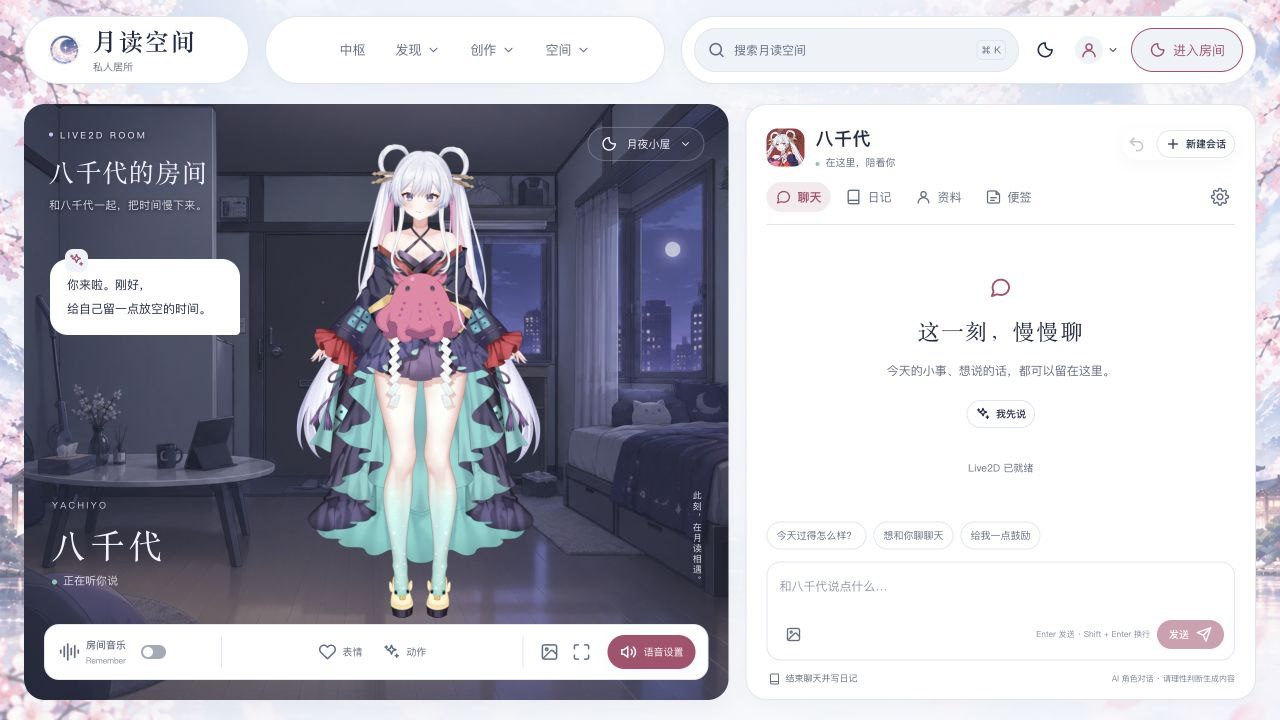
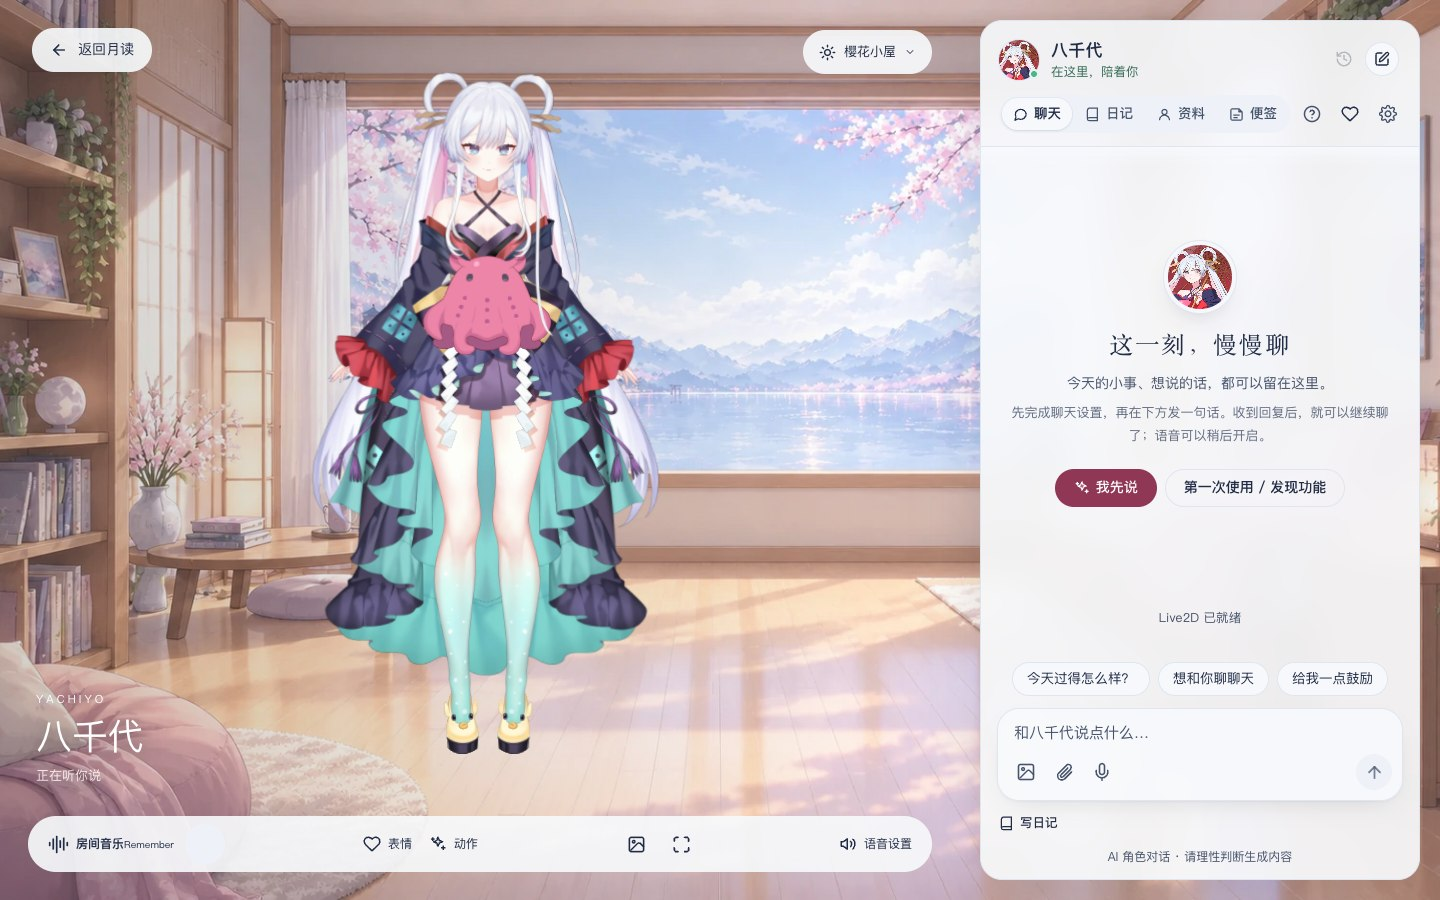
Refresh bilingual site previews and surface top-ups and sponsorship

diff --git a/README_EN.md b/README_EN.md
@@ -6,21 +6,24 @@
 
 Tsukuyomi Space is a nonprofit fan community inspired by the world of *Cosmic Princess Kaguya!*. Built with Vue 3 and Express, it brings together a Live2D AI companion, creative publishing, community interaction, and a public fan wiki.
 
+- **[Top up your AI balance](https://tsukuyomi-space.com/payments)** · Sign in to add credit for official chat and voice services and check your orders and usage.
+- **[Support Tsukuyomi Space on Afdian](https://ifdian.net/a/redchenk)** · Help cover hosting, storage, and CDN costs. You can also [scan the support QR code](#support-the-project).
+
 [Chinese / Japanese site](https://yachiyo.hk) · [English site](https://tsukuyomi-space.com) · [Deployment guide](docs/DEPLOY.md) · [Report an issue](https://github.com/redchenk/tsukuyomi-space/issues)
 
 [Preview](#preview) · [Core experiences](#core-experiences) · [Quick start](#quick-start) · [Deployment and configuration](#deployment-and-configuration) · [Developer documentation](#developer-documentation) · [Support the project](#support-the-project)
 
-[![The redesigned Tsukuyomi Space home page, featuring its sakura theme, Room entrance, and latest community creations](docs/images/preview/hub.jpg)](https://tsukuyomi-space.com/hub)
+[![Tsukuyomi Space hub with Yachiyo beneath a parasol and a link to enter her room](docs/images/preview/en/hub.jpg)](https://tsukuyomi-space.com/hub)
 
 ## Preview
 
-These screenshots were captured from the public Chinese site on **October 5, 2026**, at a 1280 × 720 desktop viewport in the light theme while signed out. The Stage shows its featured view, and the Pixel Atelier displays the built-in Moonlit house example. Community content, time, and weather scenes may change.
+Captured on the English site on November 21, 2026. The Room shows Yachiyo in Live2D, and the Pixel Atelier has the built-in Moonlit House example open.
 
 | Live2D AI Room | Stage · Articles and creations |
 | --- | --- |
-| [![Live2D AI Room](docs/images/preview/room.jpg)](https://tsukuyomi-space.com/room) | [![Featured Stage articles](docs/images/preview/stage.jpg)](https://tsukuyomi-space.com/stage?sort=featured) |
+| [![Live2D AI Room](docs/images/preview/en/room.jpg)](https://tsukuyomi-space.com/room) | [![Featured Stage articles](docs/images/preview/en/stage.jpg)](https://tsukuyomi-space.com/stage?sort=featured) |
 | **192 × 108 Pixel Atelier** | **Cosmic Princess Kaguya! Wiki** |
-| [![Pixel Atelier canvas and drawing tools](docs/images/preview/pixel.jpg)](https://tsukuyomi-space.com/pixel) | [![Cosmic Princess Kaguya! Wiki home page](docs/images/preview/wiki.jpg)](https://tsukuyomi-space.com/wiki) |
+| [![Pixel Atelier canvas and drawing tools](docs/images/preview/en/pixel.jpg)](https://tsukuyomi-space.com/pixel) | [![Cosmic Princess Kaguya! Wiki home page](docs/images/preview/en/wiki.jpg)](https://tsukuyomi-space.com/wiki) |
 
 ## Core experiences
 
@@ -250,12 +253,12 @@ VITE_SITE_LANGUAGE=en npm run build:web
 If Tsukuyomi Space has been useful to you, you can support its server, object-storage, CDN, and maintenance costs through Afdian. Contributions do not affect site features, moderation, or user permissions.
 
 <p align="center">
-  <a href="https://www.ifdian.net/a/redchenk?utm_source=copylink&amp;utm_medium=link">
+  <a href="https://ifdian.net/a/redchenk">
     <img src="assets/images/support/afdian-redchenk.jpg" width="240" alt="Support redchenk and Tsukuyomi Space on Afdian">
   </a>
 </p>
 
-<p align="center"><a href="https://www.ifdian.net/a/redchenk?utm_source=copylink&amp;utm_medium=link">Support Tsukuyomi Space on Afdian</a></p>
+<p align="center"><a href="https://ifdian.net/a/redchenk">Support Tsukuyomi Space on Afdian</a></p>
 
 ## Technology and asset credits
 

diff --git a/README.md b/README.md
@@ -6,15 +6,18 @@
 
 围绕《超时空辉夜姬！》世界观构建的非盈利同人社区，以 Vue 3 + Express 连接 Live2D AI 陪伴、内容创作、社区互动与作品百科。
 
+- **[充值官方 AI 余额](https://yachiyo.hk/payments)** · 登录支付中心，为官方聊天和语音服务充值，查看订单与用量。
+- **[在爱发电赞助月读空间](https://ifdian.net/a/redchenk)** · 自愿分担服务器、存储和 CDN 开支，也可以[扫码赞助](#支持项目)。
+
 [国内站 · 中文 / 日语](https://yachiyo.hk) · [海外站 · English](https://tsukuyomi-space.com) · [部署指南](docs/DEPLOY.md) · [问题反馈](https://github.com/redchenk/tsukuyomi-space/issues)
 
 [项目预览](#项目预览) · [核心体验](#核心体验) · [快速开始](#快速开始) · [部署与配置](#部署与配置) · [开发文档](#开发文档) · [支持项目](#支持项目)
 
-[![月读空间新版首页：月白樱粉主题、私人居所入口与月下新鲜事](docs/images/preview/hub.jpg)](https://yachiyo.hk/hub)
+[![月读空间大厅，撑伞的八千代与进入房间的入口](docs/images/preview/hub.jpg)](https://yachiyo.hk/hub)
 
 ## 项目预览
 
-以下截图采集于 **2026-10-05**，来自国内站公开页面，使用 1280 × 720 桌面视口、浅色主题、未登录状态。主舞台展示精选视图，像素工坊展示内置的月光小屋示例；社区内容与时间、天气场景会持续变化。
+2026 年 11 月 21 日实拍于国内站。房间展示八千代的 Live2D 场景，像素工坊打开了内置的「月光小屋」示例。
 
 | Live2D AI 私人居所 | 主舞台 · 文章与创作 |
 | --- | --- |
@@ -260,12 +263,12 @@ VITE_SITE_LANGUAGE=en npm run build:web
 如果月读空间为你带来了帮助，可以通过爱发电自愿支持服务器、对象存储、CDN 与持续维护。支持不会影响站内功能、内容审核或用户权限。
 
 <p align="center">
-  <a href="https://www.ifdian.net/a/redchenk?utm_source=copylink&amp;utm_medium=link">
+  <a href="https://ifdian.net/a/redchenk">
     <img src="assets/images/support/afdian-redchenk.jpg" width="240" alt="通过爱发电支持 redchenk 和月读空间">
   </a>
 </p>
 
-<p align="center"><a href="https://www.ifdian.net/a/redchenk?utm_source=copylink&amp;utm_medium=link">前往爱发电支持月读空间</a></p>
+<p align="center"><a href="https://ifdian.net/a/redchenk">前往爱发电支持月读空间</a></p>
 
 ## 技术与素材来源
 

diff --git a/docs/images/preview/README.md b/docs/images/preview/README.md
@@ -1,13 +1,11 @@
 # README 预览截图
 
-采集日期：2026-10-05。来源：国内站公开页面 https://yachiyo.hk。
-浏览器实际视口 1280 × 720，浅色主题、未登录状态。
+本目录的截图采集于 2026 年 11 月 21 日，使用 Chrome 未登录窗口，桌面视口为 1440 × 900。中文 README 使用国内站截图，英文 README 使用 `en/` 下的海外站英文截图。
 
-- `hub.jpg`：大厅。
-- `room.jpg`：私人居所，Live2D 就绪、空白聊天。
-- `stage.jpg`：主舞台精选视图（`/stage?sort=featured`）。
-- `pixel.jpg`：像素工坊，内置月光小屋示例。
-- `wiki.jpg`：百科首页。
-
-截图由实际页面采集，等尺寸压缩为 JPEG，不修改界面或拼造聊天内容。
-中英文 README 共用这组图片。预览资源置于文档目录，便于文档发布与应用资源独立维护。
+| 图片 | 国内站 | 海外站 | 截图内容 |
+| --- | --- | --- | --- |
+| `hub.jpg` | [大厅](https://yachiyo.hk/hub) | [Hub](https://tsukuyomi-space.com/hub) | 首页主视觉与房间入口 |
+| `room.jpg` | [私人居所](https://yachiyo.hk/room) | [Room](https://tsukuyomi-space.com/room) | Live2D 就绪后的房间和聊天面板 |
+| `stage.jpg` | [主舞台](https://yachiyo.hk/stage?sort=featured) | [Stage](https://tsukuyomi-space.com/stage?sort=featured) | 公开文章列表 |
+| `pixel.jpg` | [像素工坊](https://yachiyo.hk/pixel) | [Pixel Atelier](https://tsukuyomi-space.com/pixel) | 在画布设置中载入内置的月光小屋示例 |
+| `wiki.jpg` | [百科](https://yachiyo.hk/wiki) | [Wiki](https://tsukuyomi-space.com/wiki) | 百科首页与导航 |
